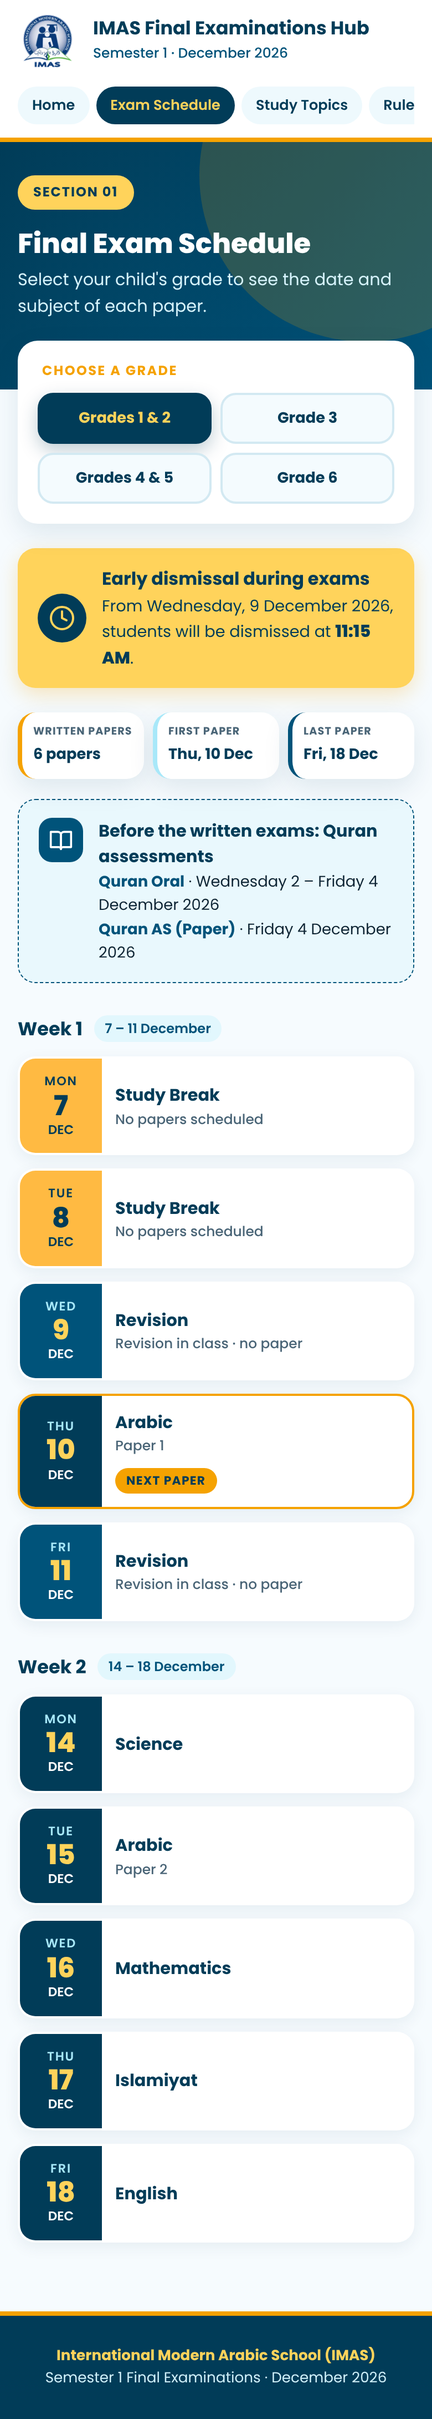
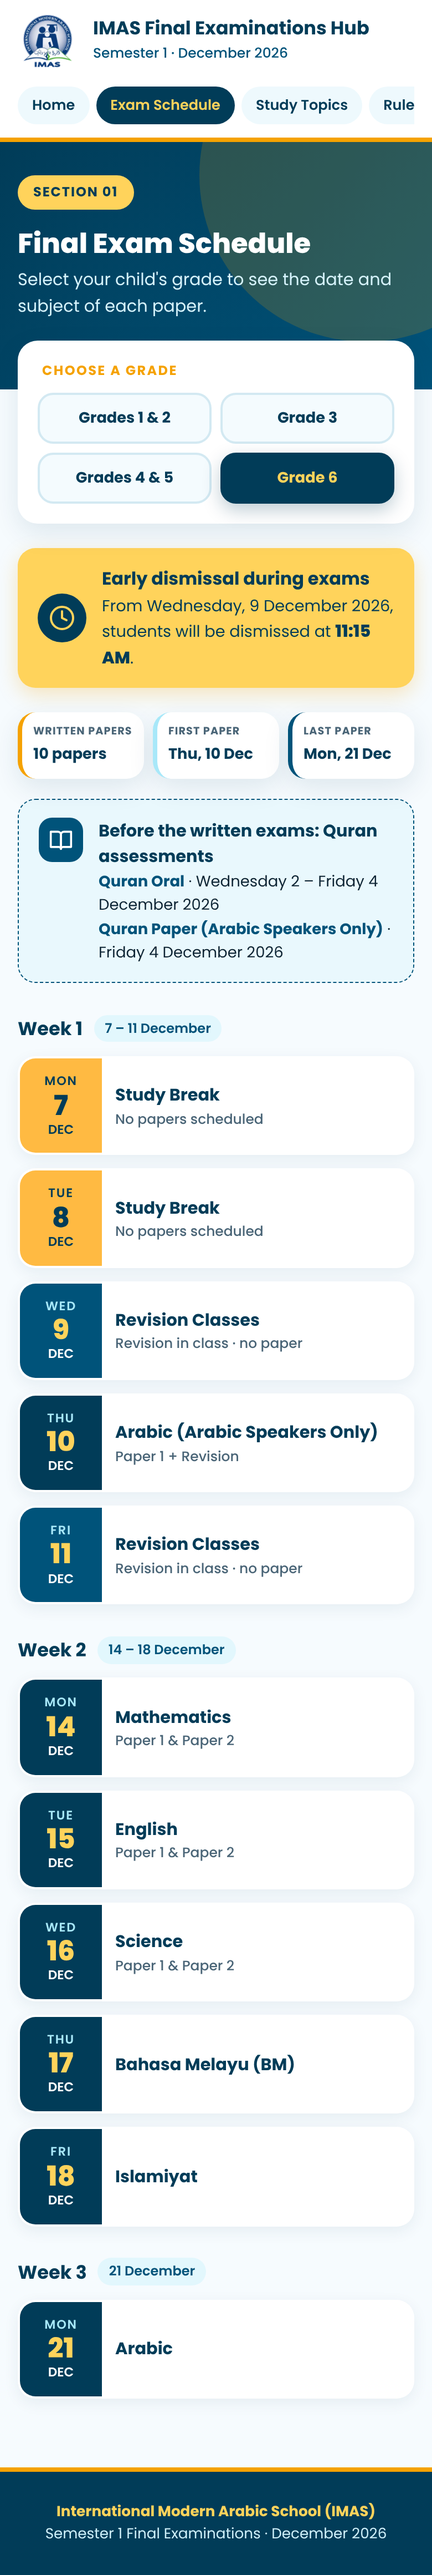
Remove Next paper label and spell out Arabic Speakers Only
Claude-Session: https://claude.ai/code/session_017sckVafi1eYcTJgytN5M8z

diff --git a/imas-exam-hub.html b/imas-exam-hub.html
@@ -160,7 +160,6 @@
   .week h3{display:flex;align-items:center;gap:10px;color:var(--navy);font-size:1.05rem;font-weight:700;margin-bottom:12px}
   .week h3 span{font-size:.75rem;font-weight:600;color:var(--blue);background:#E2F7FD;padding:3px 10px;border-radius:999px}
   .day{display:flex;background:#fff;border-radius:16px;box-shadow:0 4px 14px rgba(1,60,88,.07);margin-bottom:12px;overflow:hidden;border:2px solid transparent}
-  .day.next{border-color:var(--orange)}
   .day.today{border-color:var(--blue)}
   .day.past{opacity:.55}
   .dt{flex:none;width:96px;background:var(--navy);color:#fff;text-align:center;padding:14px 6px;display:flex;flex-direction:column;justify-content:center}
@@ -356,7 +355,7 @@
         </div>
         <div class="step" style="--c:var(--sky)">
           <div class="dot"><b>4<small>DEC</small></b></div>
-          <div><h4>Quran AS (Paper)</h4><p>Written Quran assessment · Fri 4 Dec</p></div>
+          <div><h4>Quran Paper (Arabic Speakers Only)</h4><p>Written Quran assessment · Fri 4 Dec</p></div>
         </div>
         <div class="step" style="--c:var(--amber)">
           <div class="dot"><b>7–8<small>DEC</small></b></div>
@@ -578,7 +577,7 @@
       ['2026-12-18','exam','English']])},
     g3:{name:'Grade 3', days:BRK.concat([
       ['2026-12-09','exam','English','Paper 1'],
-      ['2026-12-10','exam','Arabic AS','Paper 1'],
+      ['2026-12-10','exam','Arabic (Arabic Speakers Only)','Paper 1'],
       ['2026-12-11','exam','Mathematics'],
       ['2026-12-14','exam','Arabic'],
       ['2026-12-15','exam','Science'],
@@ -587,7 +586,7 @@
       ['2026-12-18','exam','Islamiyat']])},
     g45:{name:'Grades 4 & 5', days:BRK.concat([
       ['2026-12-09','exam','English','Paper 1'],
-      ['2026-12-10','exam','Arabic AS','Paper 1 + Revision'],
+      ['2026-12-10','exam','Arabic (Arabic Speakers Only)','Paper 1 + Revision'],
       ['2026-12-11','exam','Science'],
       ['2026-12-14','exam','Arabic'],
       ['2026-12-15','exam','Mathematics'],
@@ -596,7 +595,7 @@
       ['2026-12-18','exam','Islamiyat']])},
     g6:{name:'Grade 6', days:BRK.concat([
       ['2026-12-09','rev','Revision Classes'],
-      ['2026-12-10','exam','Arabic AS','Paper 1 + Revision'],
+      ['2026-12-10','exam','Arabic (Arabic Speakers Only)','Paper 1 + Revision'],
       ['2026-12-11','rev','Revision Classes'],
       ['2026-12-14','exam','Mathematics','Paper 1 & Paper 2',2],
       ['2026-12-15','exam','English','Paper 1 & Paper 2',2],
@@ -627,7 +626,6 @@
     var today = todayMY();
     var exams = S.days.filter(function(d){ return d[1] === 'exam'; });
     var papers = exams.reduce(function(n,d){ return n + (d[4] || 1); }, 0);
-    var nextDay = (exams.filter(function(d){ return d[0] >= today; })[0] || [])[0];
 
     var h = DISMISS + '<div class="summary">' +
       '<div class="sum" style="--c:var(--orange)"><small>Written papers</small><b>' + papers + ' papers</b></div>' +
@@ -637,7 +635,7 @@
     h += '<div class="pre"><div class="pi"><svg viewBox="0 0 24 24" fill="none" stroke-width="2" stroke-linecap="round" stroke-linejoin="round"><path d="M2 4h7a3 3 0 0 1 3 3v14a2 2 0 0 0-2-2H2z"/><path d="M22 4h-7a3 3 0 0 0-3 3v14a2 2 0 0 1 2-2h8z"/></svg></div>' +
          '<div><h4>Before the written exams: Quran assessments</h4><ul>' +
          '<li><b>Quran Oral</b> · Wednesday 2 – Friday 4 December 2026</li>' +
-         '<li><b>Quran AS (Paper)</b> · Friday 4 December 2026</li></ul></div></div>';
+         '<li><b>Quran Paper (Arabic Speakers Only)</b> · Friday 4 December 2026</li></ul></div></div>';
 
     WEEKS.forEach(function(w){
       var days = S.days.filter(function(d){ return d[0] >= w[2] && d[0] <= w[3]; });
@@ -647,13 +645,11 @@
         var p = parts(d[0]), cls = d[1];
         if (d[0] < today) cls += ' past';
         if (d[0] === today) cls += ' today';
-        else if (d[0] === nextDay) cls += ' next';
         var body;
         if (d[1] === 'brk') body = '<div class="slot"><div class="subj">Study Break<small>No papers scheduled</small></div></div>';
         else if (d[1] === 'rev') body = slotHTML(d[2], 'Revision in class · no paper');
         else body = slotHTML(d[2], d[3]);
         if (d[0] === today) body += '<div><span class="badge t">Today</span></div>';
-        else if (d[0] === nextDay) body += '<div><span class="badge">Next paper</span></div>';
         h += '<div class="day ' + cls + '"><div class="dt"><small>' + p.dow.slice(0,3) + '</small><b>' + p.d + '</b><span>DEC</span></div><div class="slots">' + body + '</div></div>';
       });
       h += '</div>';
